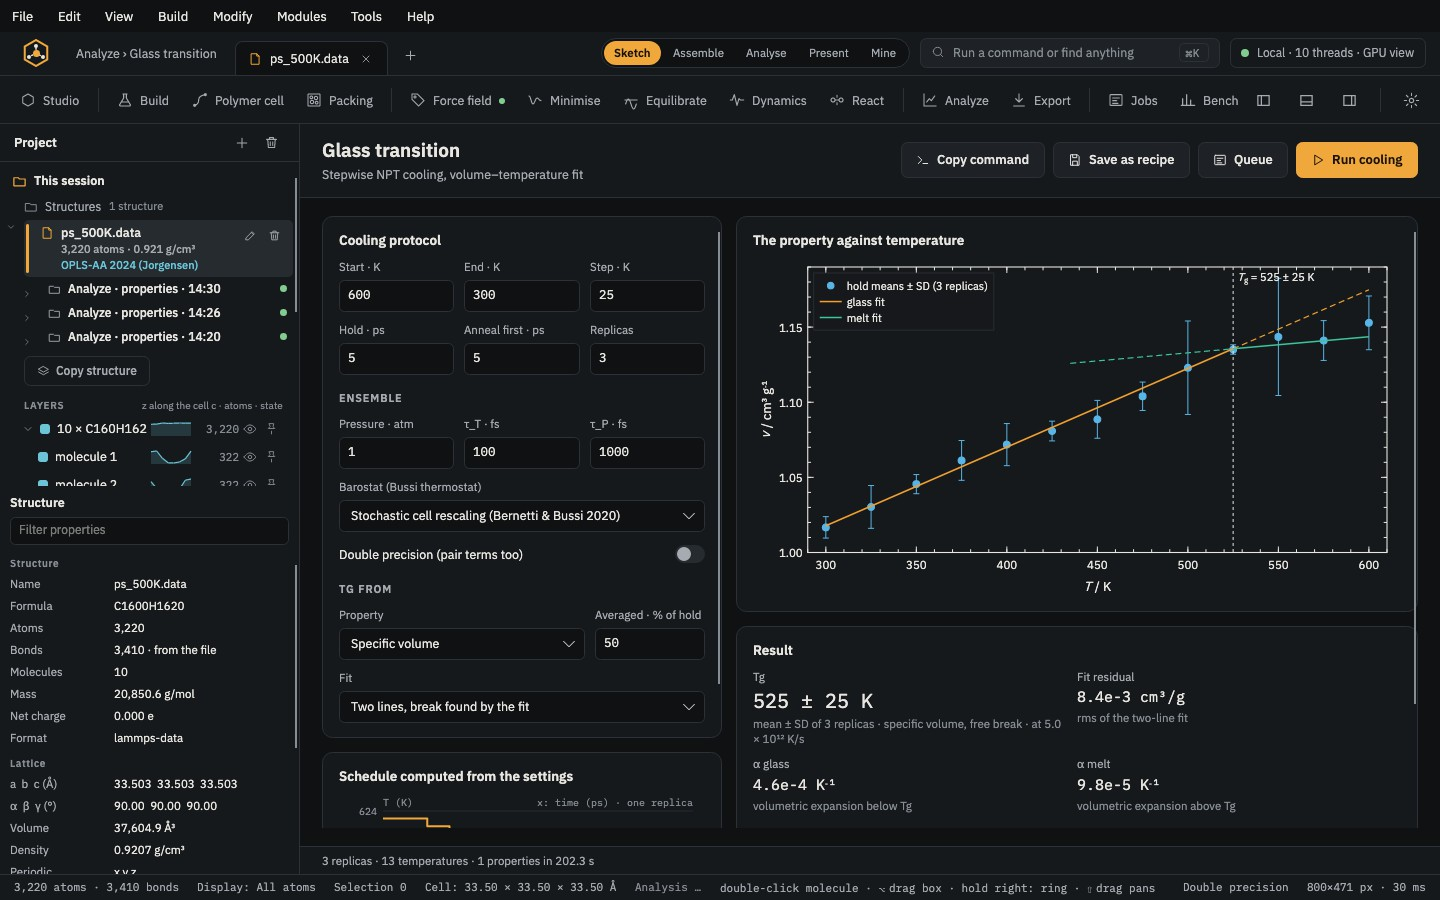
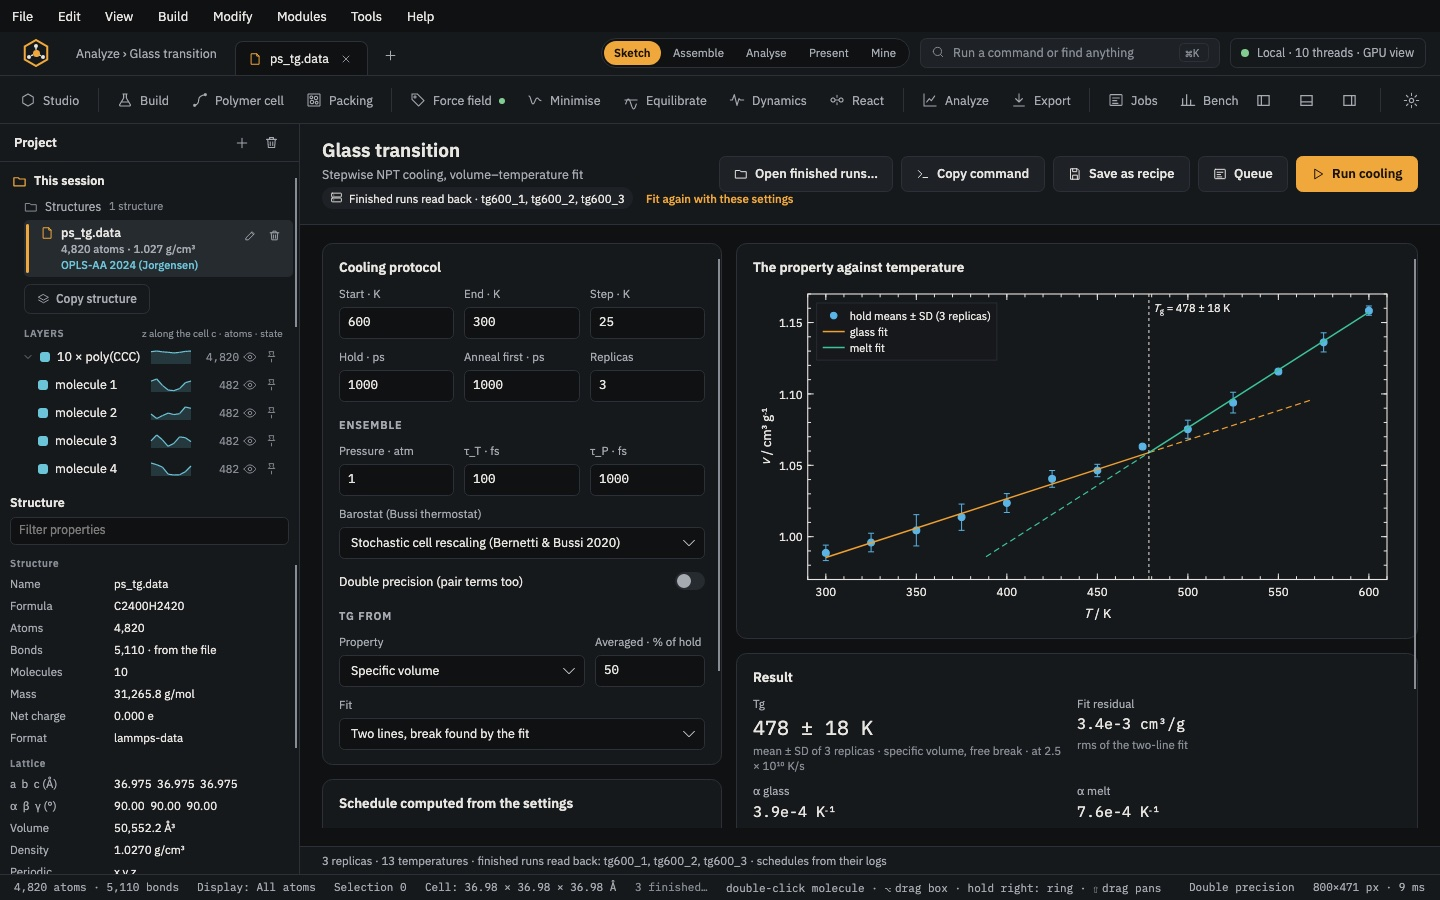
Glass transition picture from the Barnard cluster: three cooling scans of the atactic polystyrene cell (4,820 atoms, OPLS-AA 2024), 1 ns at 600 K then 600 to 300 K in 25 K steps of 1 ns, opened with Open finished runs; Tg 478 ± 18 K (mean ± SD of the three seeds) at 2.5 × 10¹⁰ K/s; caption says why 

diff --git a/docs/modules/analyze.html b/docs/modules/analyze.html
@@ -26,7 +26,7 @@
 <header class="mod-hero"><p class="eyebrow"><i class="dot st-out"></i>Analyse &amp; export · module 21</p><h1>Analyze</h1><p class="lede">Measure what you built: structure, chain statistics, thermodynamics, mechanics, dynamics, free volume, interfaces and rubber networks, from one frame or a whole trajectory, with error bars and fits.</p><p class="where"><b>Open it</b> <span class="ui">Top bar</span><i>›</i><span class="ui">Analyze</span></p><dl class="io"><div><dt>You start with</dt><dd>A structure or a trajectory (CAPS's own, or LAMMPS, GROMACS, AMBER).</dd></div><div><dt>You get</dt><dd>Result cards with curves and fits; CSV or LaTeX tables.</dd></div></dl></header>
 <figure class="shot"><button type="button" class="zoom" aria-label="Show full size"><img src="../manual/img/18_analyze.jpg" alt="Analyze on 2 ns of NPT at 300 K and 1 atm run on the Barnard HPC cluster after that equilibration (201 frames, one every 10 ps). Seven properties are computed: density, the C–C g(r), Rg, Cₙ and C∞, CED, δ and the MSD. In view: the density card against atactic polystyrene in experiment, 0.997 ± 0.002 g/cm³ or 4 % below the measured 1.04–1.065 g/cm³ (OPLS-AA glass densities are known to come out 3–8 % low), the C–C g(r), and the MSD of atoms and chain centres on log axes. Both stay nearly flat, far shallower than the ∝ t guide: over 2 ns the glass is sub-diffusive, so no diffusion coefficient is reported." width="1440" height="900" loading="eager" decoding="async"></button><figcaption><strong>Analyze</strong> on 2 ns of NPT at 300 K and 1 atm run on the Barnard HPC cluster after that equilibration (201 frames, one every 10 ps). Seven properties are computed: density, the C–C g(r), Rg, Cₙ and C∞, CED, δ and the MSD. In view: the density card against atactic polystyrene in experiment, 0.997 ± 0.002 g/cm³ or 4 % below the measured 1.04–1.065 g/cm³ (OPLS-AA glass densities are known to come out 3–8 % low), the C–C g(r), and the MSD of atoms and chain centres on log axes. Both stay nearly flat, far shallower than the ∝ t guide: over 2 ns the glass is sub-diffusive, so no diffusion coefficient is reported.</figcaption></figure>
 <h2 id="steps">Step by step</h2><ol class="stepper"><li><div><h3>Pick the calculations</h3><p>Tick chips by group: <strong>Structure</strong> (density, RDF, S(q), X-ray, neutron), <strong>Chains</strong> (Rg, Ree, C∞, persistence, entanglements), <strong>Thermo</strong> (CED, δ, Tg), <strong>Mechanics</strong> (Cij, stress–strain, creep), <strong>Dynamics</strong> (MSD, D, viscosity), <strong>Free volume</strong>, <strong>Interface</strong> (z profile, adhesion, pull-out) and <strong>Rubber network</strong> (crosslink density, H-bonds).</p></div></li><li><div><h3>Choose the frames</h3><p>Under <strong>Source</strong>: the trajectory, first and last frame, every n-th, and the time per frame.</p></div></li><li><div><h3>Adjust the settings</h3><p>The g(r) pair, only between molecules, the probe radius for free volume, the MSD fit window, and blocks for the protocols that run (cooling for Tg, deformation, pull test).</p></div></li><li><div><h3>Press Run selected</h3><p>Each result is a card with its value, error and a small figure of its curve. The figure panel beside the cards draws the one you pick at full size: axes as quantity / unit, legends, block means with the mean ± standard error, fit windows and fits, and Tg marked on the cooling curve. <span class="ui">Compare with</span> overlays reference data; <span class="ui">Export CSV / LaTeX…</span> writes the tables.</p></div></li><li><div><h3>Dedicated pages for the big ones</h3><p><strong>Glass transition</strong>: cooling from 500 K to 200 K in 20 K steps, 100 ps NPT each, Tg from a two-line fit (<span class="ui">Run cooling</span>). <span class="ui">Open finished runs…</span> reads scans that ran elsewhere (<code>caps tg</code> folders, <code>OUT.tg-points.json</code> or its csv folder); several are replicas, pooled as mean ± SD with error bars, the same as <code>caps tg --fit RUN RUN …</code>.</p><p><strong>Diffusion</strong>: the MSD with its fit window and the Yeh–Hummer box-size correction.</p><p><strong>Mechanics</strong>: uniaxial tension and the stiffness matrix. All under <strong>Modules › Analysis</strong>.</p></div></li></ol>
-<div class="shots2"><figure class="shot"><button type="button" class="zoom" aria-label="Show full size"><img src="../manual/img/22_glass.jpg" alt="Glass transition on a polyethylene cell (6 chains × 30 units, OPLS-AA 2024, 1,092 atoms): a demonstration scan from 400 to 200 K in 50 K steps of 1 ps each, the specific volume at each temperature and the two-line fit, Tg 250 ± 18 K. A scan this short shows the page at work; a Tg to quote needs holds of nanoseconds and several replicas." width="1440" height="900" loading="lazy" decoding="async"></button><figcaption><strong>Glass transition</strong> on a polyethylene cell (6 chains × 30 units, OPLS-AA 2024, 1,092 atoms): a demonstration scan from 400 to 200 K in 50 K steps of 1 ps each, the specific volume at each temperature and the two-line fit, Tg 250 ± 18 K. A scan this short shows the page at work; a Tg to quote needs holds of nanoseconds and several replicas.</figcaption></figure></div>
+<div class="shots2"><figure class="shot"><button type="button" class="zoom" aria-label="Show full size"><img src="../manual/img/22_glass.jpg" alt="Glass transition of the same atactic polystyrene cell (10 chains × 30 units, 4,820 atoms, OPLS-AA 2024), three cooling scans run on the Barnard HPC cluster and opened here with Open finished runs…: 1 ns at 600 K, then 600 to 300 K in 25 K steps held 1 ns each (2.5 × 10¹⁰ K/s), one seed per scan. The specific volume with the spread of the three scans, the glass and melt fits and Tg = 478 ± 18 K (mean ± SD). Simulated cooling is about eleven decades faster than DSC, so Tg sits well above the measured 373 K, and the break between the two branches is gentler than in experiment." width="1440" height="900" loading="lazy" decoding="async"></button><figcaption><strong>Glass transition</strong> of the same atactic polystyrene cell (10 chains × 30 units, 4,820 atoms, OPLS-AA 2024), three cooling scans run on the Barnard HPC cluster and opened here with <strong>Open finished runs…</strong>: 1 ns at 600 K, then 600 to 300 K in 25 K steps held 1 ns each (2.5 × 10¹⁰ K/s), one seed per scan. The specific volume with the spread of the three scans, the glass and melt fits and Tg = 478 ± 18 K (mean ± SD). Simulated cooling is about eleven decades faster than DSC, so Tg sits well above the measured 373 K, and the break between the two branches is gentler than in experiment.</figcaption></figure></div>
 <h2 id="scripted">The same without the Studio</h2><p class="muted">Every Studio page calls the same core as the <code>caps</code> command and the <code>caps</code> Python package, so a step you clicked can be repeated in a script.</p>
 <div class="tabs" role="tablist"><button role="tab" type="button" aria-selected="true" data-tab="0">Command line</button><button role="tab" type="button" aria-selected="false" data-tab="1">Python</button></div>
 <div class="tabpanel" data-panel="0"><div class="code" data-lang="shell"><pre><code>caps analyze traj.lammpstrj --topology cell.data \

diff --git a/docs/manual/index.html b/docs/manual/index.html
@@ -437,7 +437,7 @@ dialog img{max-width:96vw;max-height:94vh;display:block;border-radius:6px;cursor
   <h2>Analyze</h2>
   <div class="grid2">
     <figure><button type="button" aria-label="Enlarge"><img src="img/18_analyze.jpg" alt="Analyze: result cards and the mean-square displacement figure" loading="lazy"></button><figcaption><b>Analyze.</b> 2 ns of NPT at 300 K run on the Barnard HPC cluster after that equilibration (4,820 atoms, 201 frames). Seven properties computed; in view the density card against atactic polystyrene in experiment (0.997 g/cm³, 4 % below 1.04–1.065 g/cm³; OPLS-AA glass densities are known to come out 3–8 % low), the C–C g(r), and the MSD of atoms and chain centres, nearly flat and far shallower than the ∝ t guide: the glass is sub-diffusive over 2 ns, so no diffusion coefficient is given.</figcaption></figure>
-    <figure><button type="button" aria-label="Enlarge"><img src="img/22_glass.jpg" alt="Glass transition" loading="lazy"></button><figcaption><b>Glass transition.</b> Cooling scan and Tg fit.</figcaption></figure>
+    <figure><button type="button" aria-label="Enlarge"><img src="img/22_glass.jpg" alt="Glass transition" loading="lazy"></button><figcaption><b>Glass transition.</b> Three cluster cooling scans of atactic polystyrene (600 to 300 K, 1 ns per step) opened as finished runs: Tg 478 ± 18 K at 2.5 × 10¹⁰ K/s.</figcaption></figure>
   </div>
   <p>Other analyses include density, g(r), chain statistics, free volume, interface profiles, moduli from tensile runs (x, y, z or averaged), orientation and scattering. Each one exports CSV.</p>
   <p>On the Glass transition page, <span class="ui">Open finished runs…</span> reads cooling scans that ran elsewhere: <code>caps tg</code> run folders, their <code>OUT.tg-points.json</code> or their csv folders. Several are replicas and are pooled as mean ± SD with error bars, as the page pools its own; the command line does the same with <code>caps tg --fit RUN RUN …</code>.</p>
